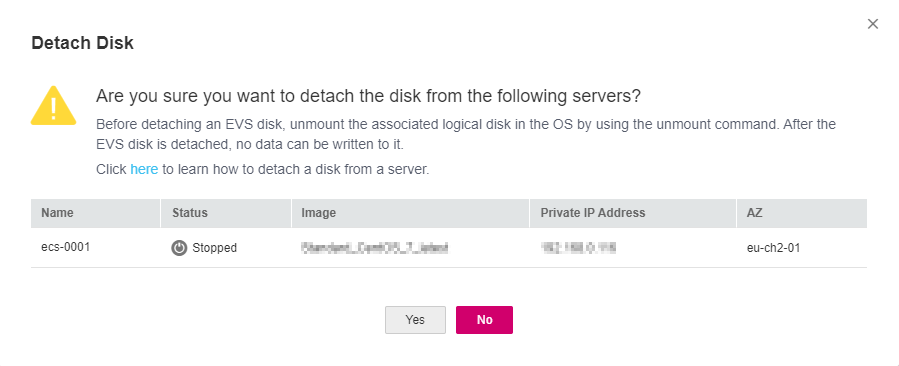
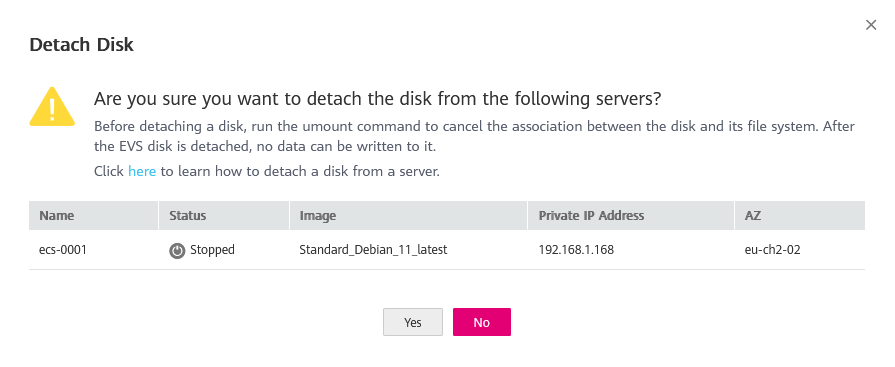
Update content

diff --git a/umn/source/change_history.rst b/umn/source/change_history.rst
@@ -8,9 +8,13 @@ Change History
 +-----------------------------------+-------------------------------------------------------------------------------------+
 | Released On                       | Description                                                                         |
 +===================================+=====================================================================================+
+| 2024-09-24                        | This issue is the fourth official release, which incorporates the following change: |
+|                                   |                                                                                     |
+|                                   | -  Optimized some descriptions.                                                     |
++-----------------------------------+-------------------------------------------------------------------------------------+
 | 2023-05-05                        | This issue is the third official release, which incorporates the following change:  |
 |                                   |                                                                                     |
-|                                   | Modified the description in :ref:`EVS Encryption <evs_01_0001>`.                    |
+|                                   | -  Add descriptions about EVS encryption.                                           |
 +-----------------------------------+-------------------------------------------------------------------------------------+
 | 2022-08-30                        | This issue is the second official release, which incorporates the following change: |
 |                                   |                                                                                     |
